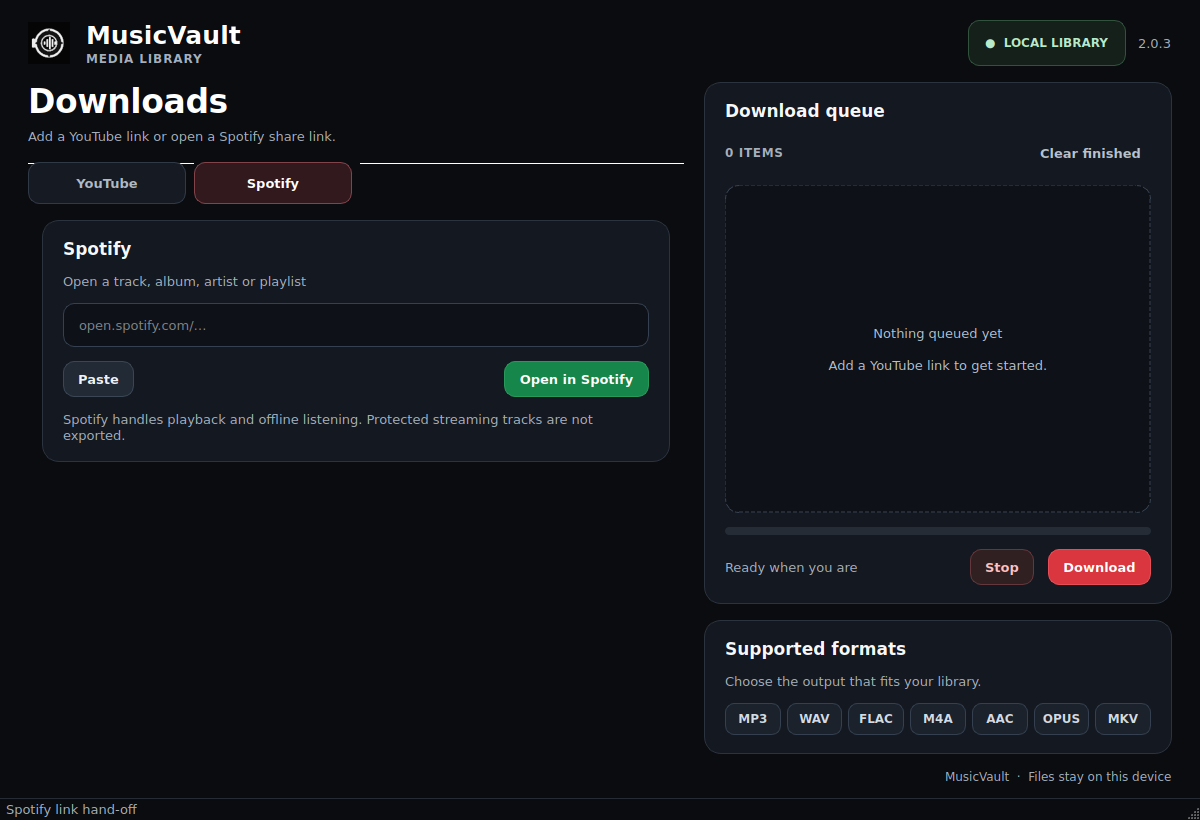
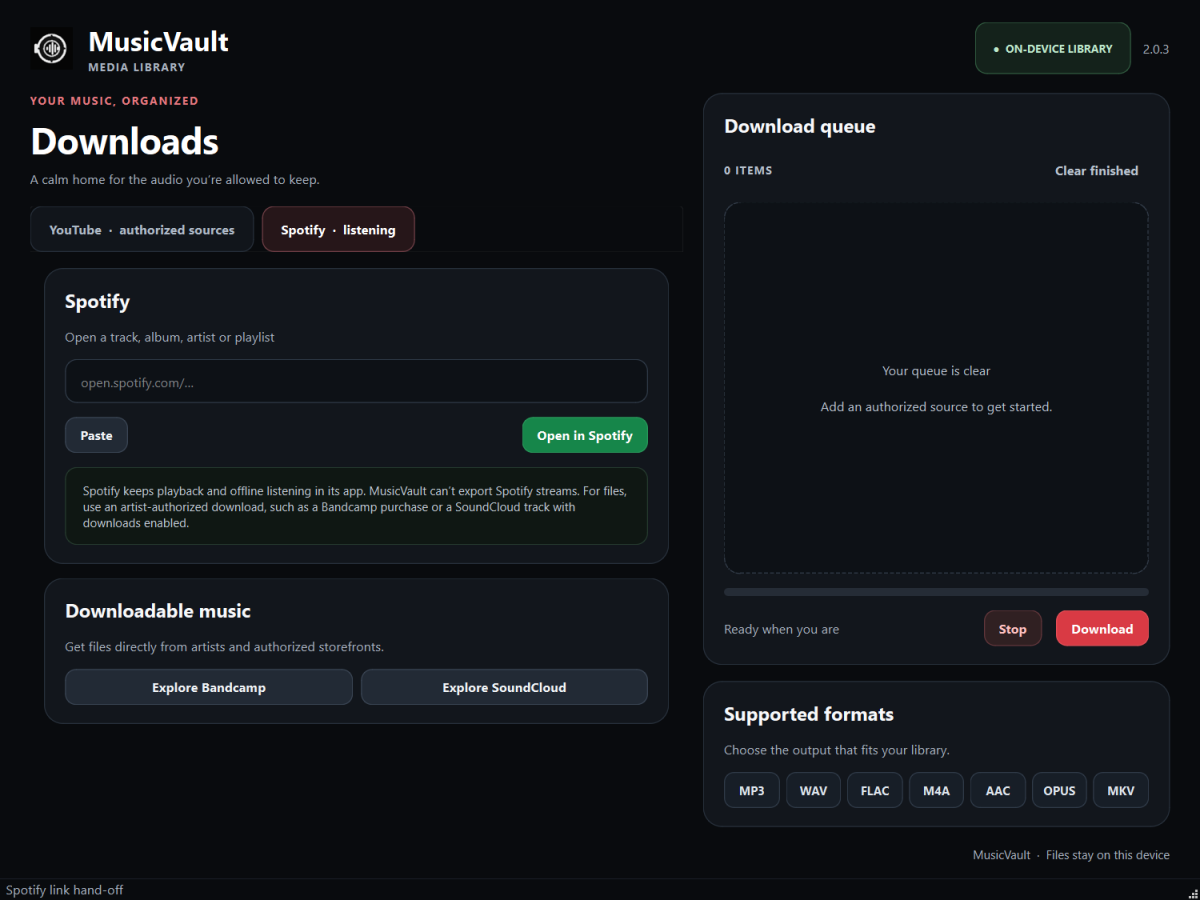
Polish desktop UI and clarify Spotify download limits

diff --git a/musicvault_app.py b/musicvault_app.py
@@ -152,8 +152,8 @@ class MusicVaultWindow(QMainWindow):
     def __init__(self):
         super().__init__()
         self.setWindowTitle(f"{APP_NAME} — Downloads")
-        self.setMinimumSize(980, 760)
-        self.resize(1120, 840)
+        self.setMinimumSize(980, 820)
+        self.resize(1120, 900)
         self.jobs: list[Job] = []
         self.worker: Worker | None = None
         self.cancel_event = threading.Event()
@@ -181,8 +181,8 @@ class MusicVaultWindow(QMainWindow):
         root.setObjectName("Root")
         self.setCentralWidget(root)
         outer = QVBoxLayout(root)
-        outer.setContentsMargins(28, 20, 28, 14)
-        outer.setSpacing(16)
+        outer.setContentsMargins(30, 22, 30, 16)
+        outer.setSpacing(19)
 
         # Compact app header.
         header = QHBoxLayout()
@@ -206,7 +206,7 @@ class MusicVaultWindow(QMainWindow):
         header.addLayout(brand_stack)
         header.addStretch(1)
 
-        local_badge = QLabel("●  LOCAL LIBRARY")
+        local_badge = QLabel("●  ON-DEVICE LIBRARY")
         local_badge.setObjectName("LocalBadge")
         header.addWidget(local_badge)
         version = QLabel(APP_VERSION)
@@ -222,11 +222,14 @@ class MusicVaultWindow(QMainWindow):
         left_column.setSpacing(18)
 
         intro = QVBoxLayout()
-        intro.setSpacing(7)
+        intro.setSpacing(6)
+        intro_eyebrow = QLabel("YOUR MUSIC, ORGANIZED")
+        intro_eyebrow.setObjectName("HeroEyebrow")
+        intro.addWidget(intro_eyebrow)
         page_title = QLabel("Downloads")
         page_title.setObjectName("PageTitle")
         intro.addWidget(page_title)
-        page_hint = QLabel("Add a YouTube link or open a Spotify share link.")
+        page_hint = QLabel("A calm home for the audio you’re allowed to keep.")
         page_hint.setObjectName("Hint")
         intro.addWidget(page_hint)
         left_column.addLayout(intro)
@@ -356,15 +359,33 @@ class MusicVaultWindow(QMainWindow):
         spotify_actions.addWidget(open_button)
         spotify_layout.addLayout(spotify_actions)
 
-        note = QLabel("Spotify handles playback and offline listening. Protected streaming tracks are not exported.")
-        note.setObjectName("Hint")
+        note = QLabel("Spotify keeps playback and offline listening in its app. MusicVault can’t export Spotify streams. For files, use an artist-authorized download, such as a Bandcamp purchase or a SoundCloud track with downloads enabled.")
+        note.setObjectName("SpotifyNote")
         note.setWordWrap(True)
         spotify_layout.addWidget(note)
         sbox.addWidget(spotify_card)
+        sources_card, sources_layout = self._card("Downloadable music")
+        sources_hint = QLabel("Get files directly from artists and authorized storefronts.")
+        sources_hint.setObjectName("Hint")
+        sources_layout.addWidget(sources_hint)
+        source_links = QHBoxLayout()
+        source_links.setSpacing(8)
+        bandcamp_button = MotionButton("Explore Bandcamp")
+        bandcamp_button.setObjectName("SecondaryButton")
+        bandcamp_button.setMinimumHeight(44)
+        bandcamp_button.clicked.connect(lambda: self._open_music_source("https://bandcamp.com/"))
+        source_links.addWidget(bandcamp_button)
+        soundcloud_button = MotionButton("Explore SoundCloud")
+        soundcloud_button.setObjectName("SecondaryButton")
+        soundcloud_button.setMinimumHeight(44)
+        soundcloud_button.clicked.connect(lambda: self._open_music_source("https://soundcloud.com/"))
+        source_links.addWidget(soundcloud_button)
+        sources_layout.addLayout(source_links)
+        sbox.addWidget(sources_card)
         sbox.addStretch(1)
 
-        tabs.addTab(youtube, "YouTube")
-        tabs.addTab(spotify, "Spotify")
+        tabs.addTab(youtube, "YouTube  ·  authorized sources")
+        tabs.addTab(spotify, "Spotify  ·  listening")
         tabs.currentChanged.connect(self._tab_changed)
         left_column.addWidget(tabs, 1)
         columns.addLayout(left_column, 7)
@@ -387,7 +408,7 @@ class MusicVaultWindow(QMainWindow):
         queue_layout.addLayout(queue_header)
 
         self.queue_stack = QStackedWidget()
-        self.queue_empty = QLabel("Nothing queued yet\n\nAdd a YouTube link to get started.")
+        self.queue_empty = QLabel("Your queue is clear\n\nAdd an authorized source to get started.")
         self.queue_empty.setObjectName("EmptyState")
         self.queue_empty.setAlignment(Qt.AlignCenter)
         self.queue_empty.setWordWrap(True)
@@ -447,25 +468,28 @@ class MusicVaultWindow(QMainWindow):
 
     def _apply_style(self) -> None:
         self.setStyleSheet("""
-            QMainWindow, QWidget#Root { background:#0A0C10; color:#F4F6F8; }
+            QMainWindow, QWidget#Root { background:#090B0E; color:#F4F6F8; }
             QWidget { color:#F4F6F8; font-family:'Segoe UI',Arial,sans-serif; font-size:10pt; }
-            QLabel#Brand { font-size:19pt; font-weight:750; letter-spacing:0.1px; color:#FFFFFF; }
-            QLabel#PageTitle { font-size:25pt; font-weight:740; letter-spacing:-0.4px; color:#FFFFFF; }
-            QLabel#Eyebrow { color:#A6B0BD; font-size:9pt; font-weight:700; letter-spacing:0.9px; }
-            QLabel#Version, QLabel#Hint, QLabel#PathLabel, QLabel#Footer { color:#A6B0BD; }
+            QLabel#Brand { font-size:20pt; font-weight:760; letter-spacing:0.1px; color:#FFFFFF; }
+            QLabel#PageTitle { font-size:28pt; font-weight:760; letter-spacing:-0.6px; color:#FFFFFF; }
+            QLabel#HeroEyebrow { color:#E7777E; font-size:8pt; font-weight:750; letter-spacing:1.5px; }
+            QLabel#Eyebrow { color:#A8B2C0; font-size:8pt; font-weight:720; letter-spacing:1.1px; }
+            QLabel#Version, QLabel#Hint, QLabel#PathLabel, QLabel#Footer { color:#A8B2C0; }
             QLabel#Hint { font-size:10pt; }
             QLabel#Footer { font-size:9pt; }
-            QLabel#LocalBadge { background:#142019; color:#B6EBCB; border:1px solid #31533E;
-                                border-radius:11px; padding:9px 12px; font-size:9pt; font-weight:700; }
-            QLabel#SectionTitle { font-size:13pt; font-weight:720; color:#F7F8FA; }
-            QLabel#QueueCount { color:#A6B0BD; font-size:9pt; font-weight:700; letter-spacing:0.7px; }
-            QLabel#EmptyState { color:#B5C0CE; background:#0E1218; border:1px dashed #394454;
-                                border-radius:14px; padding:24px; font-size:10pt; }
-            QLabel#FormatPill { background:#1B222C; border:1px solid #344050; color:#D3DBE5;
-                                border-radius:9px; padding:8px 5px; font-size:9pt; font-weight:700; }
-            QFrame[musicVaultCard="true"] { background:#141820; border:1px solid #2B333F; border-radius:17px; }
+            QLabel#LocalBadge { background:#14221B; color:#BCE8CB; border:1px solid #315B40;
+                                border-radius:12px; padding:10px 14px; font-size:8pt; font-weight:730; }
+            QLabel#SectionTitle { font-size:14pt; font-weight:740; color:#F7F8FA; }
+            QLabel#QueueCount { color:#B7C1CE; font-size:8pt; font-weight:730; letter-spacing:1px; }
+            QLabel#EmptyState { color:#B8C2CF; background:#0D1116; border:1px dashed #343E4B;
+                                border-radius:16px; padding:24px; font-size:10pt; }
+            QLabel#SpotifyNote { color:#C2CBD6; background:#0F1713; border:1px solid #263B2F;
+                                 border-radius:12px; padding:14px; font-size:9pt; }
+            QLabel#FormatPill { background:#171E27; border:1px solid #303B49; color:#DDE4EC;
+                                border-radius:10px; padding:9px 5px; font-size:9pt; font-weight:720; }
+            QFrame[musicVaultCard="true"] { background:#12161C; border:1px solid #28313C; border-radius:19px; }
             QLineEdit, QComboBox, QListWidget {
-                background:#0E1218; border:1px solid #354050; border-radius:11px;
+                background:#0D1116; border:1px solid #303B48; border-radius:12px;
                 padding:11px 13px; color:#F4F6F8; selection-background-color:#364354;
             }
             QLineEdit:focus, QComboBox:focus { border:2px solid #899DB6; background:#111720; }
@@ -479,17 +503,17 @@ class MusicVaultWindow(QMainWindow):
             QTabWidget#SourceTabs::pane { border:0; background:transparent; top:0; }
             QTabWidget#SourceTabs::tab-bar { background:transparent; }
             QTabBar { background:transparent; }
-            QTabBar::tab { min-width:112px; color:#B0BAC7; background:#161B23;
-                           padding:12px 22px; margin-right:8px; border:1px solid #303A47;
-                           border-radius:11px; font-weight:680; }
-            QTabBar::tab:selected { color:#FFFFFF; background:#32191E; border-color:#82434B; }
-            QTabBar::tab:hover:!selected { color:#F0F3F6; background:#222A35; }
+            QTabBar::tab { min-width:112px; color:#AEB9C7; background:#11151B;
+                           padding:13px 18px; margin-right:8px; border:1px solid #27303B;
+                           border-radius:12px; font-weight:690; }
+            QTabBar::tab:selected { color:#FFFFFF; background:#261619; border-color:#714047; }
+            QTabBar::tab:hover:!selected { color:#F0F3F6; background:#1A2029; }
             QPushButton { color:#F4F6F8; border:1px solid transparent; border-radius:11px;
                           padding:6px 14px; font-weight:700; min-height:22px; }
             QPushButton:focus { border:2px solid #F4F6F8; }
             QPushButton:disabled { background:#242A33; color:#8C96A4; border-color:#303844; }
-            QPushButton#YoutubeButton { background:#D93640; color:#FFFFFF; border-color:#E74D56; }
-            QPushButton#YoutubeButton:hover { background:#EA454D; }
+            QPushButton#YoutubeButton { background:#D93A44; color:#FFFFFF; border-color:#E75058; }
+            QPushButton#YoutubeButton:hover { background:#E64952; }
             QPushButton#YoutubeButton:pressed { background:#BA2D36; }
             QPushButton#SpotifyButton { background:#16864A; color:#FFFFFF; border-color:#29985B; }
             QPushButton#SpotifyButton:hover { background:#1A9654; }
@@ -503,7 +527,7 @@ class MusicVaultWindow(QMainWindow):
             QListWidget::item:selected { background:#242D39; border-radius:7px; }
             QProgressBar { background:#252C36; border:0; border-radius:4px; height:8px; }
             QProgressBar::chunk { background:#D93640; border-radius:4px; }
-            QStatusBar { color:#A6B0BD; background:#0A0C10; border-top:1px solid #252C36; }
+            QStatusBar { color:#A8B2C0; background:#090B0E; border-top:1px solid #202630; }
         """)
 
     def _tab_changed(self, index: int) -> None:
@@ -560,6 +584,10 @@ class MusicVaultWindow(QMainWindow):
             self.statusBar().showMessage("Opened in Spotify", 3000)
         except Exception as exc:
             QMessageBox.warning(self, APP_NAME, str(exc))
+
+    def _open_music_source(self, url: str) -> None:
+        if not QDesktopServices.openUrl(QUrl(url)):
+            QMessageBox.warning(self, APP_NAME, "Could not open your browser. Please try again.")
 
     def _update_queue(self) -> None:
         self.queue_count.setText(f"{len(self.jobs)} ITEMS")

diff --git a/tests/test_desktop_ui.py b/tests/test_desktop_ui.py
@@ -55,11 +55,11 @@ def click_button(window, label):
 
 
 def test_empty_window_controls_and_layout_fit_supported_minimum(window):
-    window.resize(980, 760)
+    window.resize(980, 820)
     QApplication.processEvents()
     root = window.centralWidget()
     assert window.size().width() >= 980
-    assert window.size().height() >= 760
+    assert window.size().height() >= 820
     for button in window.findChildren(QPushButton):
         if button.isVisible():
             top_left = button.mapTo(root, button.rect().topLeft())
@@ -67,6 +67,9 @@ def test_empty_window_controls_and_layout_fit_supported_minimum(window):
             assert top_left.y() >= 0
             assert top_left.x() + button.width() <= root.width()
             assert top_left.y() + button.height() <= root.height()
+    settings_card = window.findChild(QFrame, "ExportSettingsCard")
+    card_origin = settings_card.mapTo(root, settings_card.rect().topLeft())
+    assert card_origin.y() + settings_card.height() <= root.height()
     assert not window.download_button.isEnabled()
     assert not window.stop_button.isEnabled()
     assert window.queue_stack.currentIndex() == 0
@@ -138,7 +141,11 @@ def test_spotify_tab_and_open_link_action(window, monkeypatch, warnings):
     assert window.statusBar().currentMessage() == "Spotify link hand-off"
 
     opened = []
-    monkeypatch.setattr(musicvault_app.QDesktopServices, "openUrl", lambda url: opened.append(url.toString()) or True)
+    monkeypatch.setattr(
+        musicvault_app.QDesktopServices,
+        "openUrl",
+        lambda url: opened.append(url.toString()) or True,
+    )
     window.spotify_input.setText("https://open.spotify.com/track/1234567890123456789012")
     click_button(window, "Open in Spotify")
     assert opened == ["https://open.spotify.com/track/1234567890123456789012"]
@@ -154,6 +161,16 @@ def test_spotify_open_failure_shows_recoverable_error(window, monkeypatch, warni
     window.spotify_input.setText("https://open.spotify.com/track/1234567890123456789012")
     click_button(window, "Open in Spotify")
     assert "Could not open Spotify" in warnings[-1]
+
+
+def test_authorized_music_source_buttons_open_official_sites(window, monkeypatch):
+    window.findChild(QTabWidget, "SourceTabs").setCurrentIndex(1)
+    QApplication.processEvents()
+    opened = []
+    monkeypatch.setattr(musicvault_app.QDesktopServices, "openUrl", lambda url: opened.append(url.toString()) or True)
+    click_button(window, "Explore Bandcamp")
+    click_button(window, "Explore SoundCloud")
+    assert opened == ["https://bandcamp.com/", "https://soundcloud.com/"]
 
 
 def test_queue_state_updates_progress_and_error(window):

diff --git a/scripts/capture_ui_previews.py b/scripts/capture_ui_previews.py
@@ -64,11 +64,11 @@ def main() -> int:
 
     desktop_youtube = MusicVaultWindow()
     desktop_youtube.folder_label.set_full_text("~/Music/MusicVault")
-    render(desktop_youtube, args.output / "desktop-youtube.png", QSize(1200, 820), desktop_tab=0)
+    render(desktop_youtube, args.output / "desktop-youtube.png", QSize(1200, 900), desktop_tab=0)
 
     desktop_spotify = MusicVaultWindow()
     desktop_spotify.folder_label.set_full_text("~/Music/MusicVault")
-    render(desktop_spotify, args.output / "desktop-spotify.png", QSize(1200, 820), desktop_tab=1)
+    render(desktop_spotify, args.output / "desktop-spotify.png", QSize(1200, 900), desktop_tab=1)
 
     mobile_youtube = MusicVaultMobileWindow()
     render(mobile_youtube, args.output / "mobile-prototype-youtube.png", QSize(390, 844), mobile_source="youtube")

diff --git a/musicvault_core.py b/musicvault_core.py
@@ -17,7 +17,7 @@ from pathlib import Path
 from urllib.parse import parse_qs, urlsplit
 
 APP_NAME = "MusicVault"
-APP_VERSION = "2.0.3"
+APP_VERSION = "2.0.4"
 MAX_URL_LENGTH = 2048
 MAX_PLAYLIST_ITEMS = 500
 MAX_QUEUE_ITEMS = 100

diff --git a/tests/test_core.py b/tests/test_core.py
@@ -107,4 +107,4 @@ def test_format_helpers_handle_invalid_values():
 
 def test_version_identity():
     assert APP_NAME == "MusicVault"
-    assert APP_VERSION == "2.0.3"
+    assert APP_VERSION == "2.0.4"

diff --git a/QA_REPORT.md b/QA_REPORT.md
@@ -1,8 +1,8 @@
-# MusicVault 2.0.3 — QA report
+# MusicVault 2.0.4 — QA report
 
 ## Release downloads
 
-The [v2.0.3 GitHub Release](https://github.com/Bhaveek08/MusicVault/releases/tag/v2.0.3) provides direct desktop downloads:
+The [v2.0.4 GitHub Release](https://github.com/Bhaveek08/MusicVault/releases/tag/v2.0.4) provides direct desktop downloads:
 
 | Platform | Asset | Verification | Distribution caveat |
 | --- | --- | --- | --- |
@@ -16,11 +16,11 @@ The mobile clients validate links, stage a local preview queue, and hand officia
 
 ## Regression and security checks
 
-The six-job [CI run 44478916414](https://github.com/Bhaveek08/MusicVault/actions/runs/44478916414) passed on Windows, macOS 15, and Ubuntu with Python 3.11 and 3.13. The suite contains 85 pytest cases and ran for 50 repetitions per job. A separate local Windows QA run also passed 50 consecutive repetitions. The [CodeQL run 44478916468](https://github.com/Bhaveek08/MusicVault/actions/runs/44478916468) passed.
+For the v2.0.4 source, all 86 pytest cases passed locally and the release QA runner passed 50 consecutive runs on Windows. The previous v2.0.3 six-job [CI run 44478916414](https://github.com/Bhaveek08/MusicVault/actions/runs/44478916414) passed on Windows, macOS 15, and Ubuntu with Python 3.11 and 3.13. The [CodeQL run 44478916468](https://github.com/Bhaveek08/MusicVault/actions/runs/44478916468) also passed for that earlier source revision.
 
-The [Mobile UI run 44478916403](https://github.com/Bhaveek08/MusicVault/actions/runs/44478916403) passed source-policy checks, shared WebView button/error interaction checks on Windows and Ubuntu, target-readiness checks, and rendered current UI previews. The desktop screenshots show the visible app window at 1200 × 820; mobile previews are touch-first at 390 × 844.
+The [Mobile UI run 44478916403](https://github.com/Bhaveek08/MusicVault/actions/runs/44478916403) passed source-policy checks, shared WebView button/error interaction checks on Windows and Ubuntu, and target-readiness checks for the previous source revision. Current desktop UI previews show the visible app window at 1200 × 900; mobile previews are touch-first at 390 × 844.
 
-Test coverage includes strict YouTube and Spotify URL handling, permission and playlist gating, invalid-input errors, clipboard success/failure, folder selection and cancellation, queue capacity and clearing, progress/failure states, download/stop control wiring, button geometry, non-overlapping columns, long-path elision, format selection, output-folder validation, and downloader option constraints. The shared mobile UI tests cover all seven interactive controls and recoverable error cases.
+Test coverage includes strict YouTube and Spotify URL handling, permission and playlist gating, invalid-input errors, clipboard success/failure, folder selection and cancellation, queue capacity and clearing, progress/failure states, download/stop control wiring, authorized-storefront link actions, minimum-height button/card geometry, non-overlapping columns, long-path elision, format selection, output-folder validation, and downloader option constraints. The shared mobile UI tests cover all seven interactive controls and recoverable error cases.
 
 ## Limits
 

diff --git a/README.md b/README.md
@@ -10,7 +10,7 @@ MusicVault provides a single desktop window for managing permitted YouTube media
 ## Features
 
 - **YouTube:** queue supported public videos and playlists only when the source service and relevant rights holders authorize saving them.
-- **Spotify:** validate and open official track, album, artist, or playlist links. Protected streaming tracks are not exported to MP3/WAV files.
+- **Spotify:** validate and open official track, album, artist, or playlist links. Spotify playback and offline listening stay in Spotify; the app links to Bandcamp and to SoundCloud tracks whose artists enable downloads.
 - **Formats:** MP3, WAV, FLAC, M4A, AAC, OPUS, and MKV. Lossy audio exports target 320 kbps where supported; source quality remains the limit.
 - **Workflow:** playlist opt-in, queue management, progress, cancellation, remembered output folder, and collision-safe filenames.
 - **Interface:** black-first theme, YouTube red and Spotify green accents, lightweight button feedback, and animated progress.

diff --git a/CHANGELOG.md b/CHANGELOG.md
@@ -1,5 +1,12 @@
 # Changelog
 
+## 2.0.4 — 2026-11-19
+
+- Refresh the desktop interface with stronger hierarchy, calmer surfaces, more generous spacing, and a higher minimum window height to prevent clipping.
+- Clarify that Spotify links open in Spotify and that protected streams cannot be exported.
+- Add direct links to Bandcamp and SoundCloud as destinations for artist-authorized downloads.
+- Update desktop UI previews and add regression checks for minimum-height layout and authorized-source links.
+
 ## 2.0.3 — 2026-11-19
 
 - Add the verified Linux x86_64 portable build to versioned GitHub Releases.
